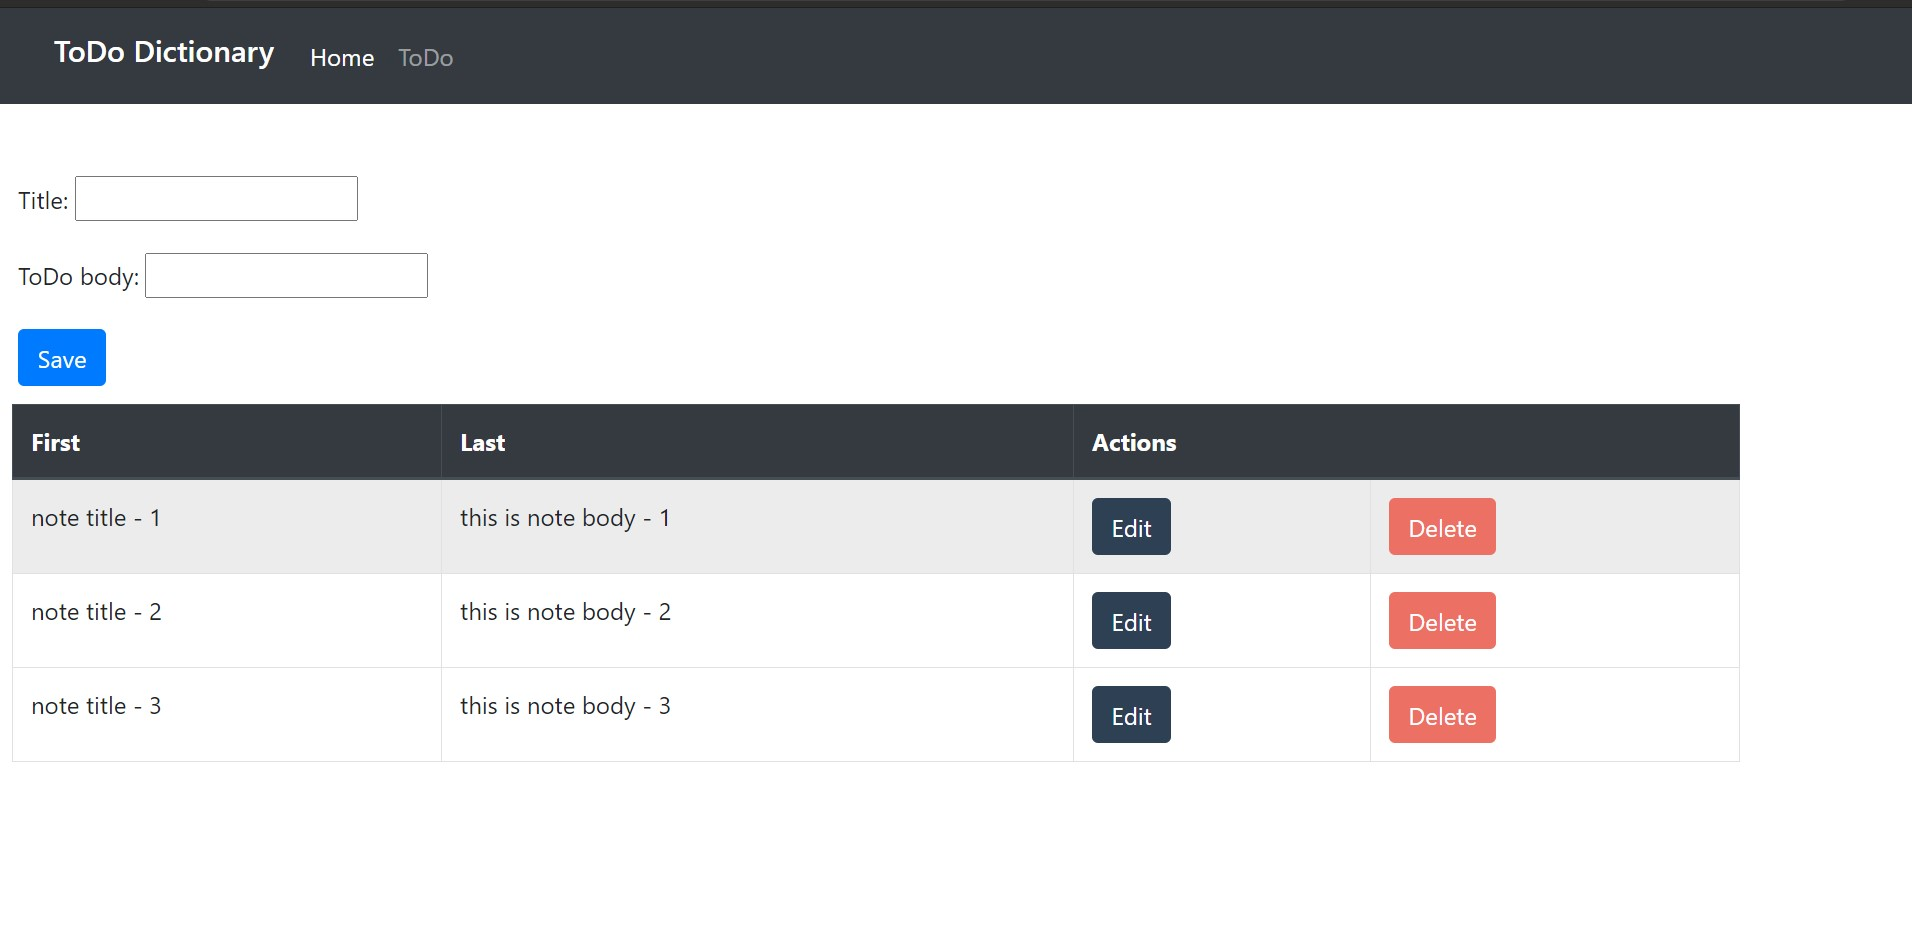
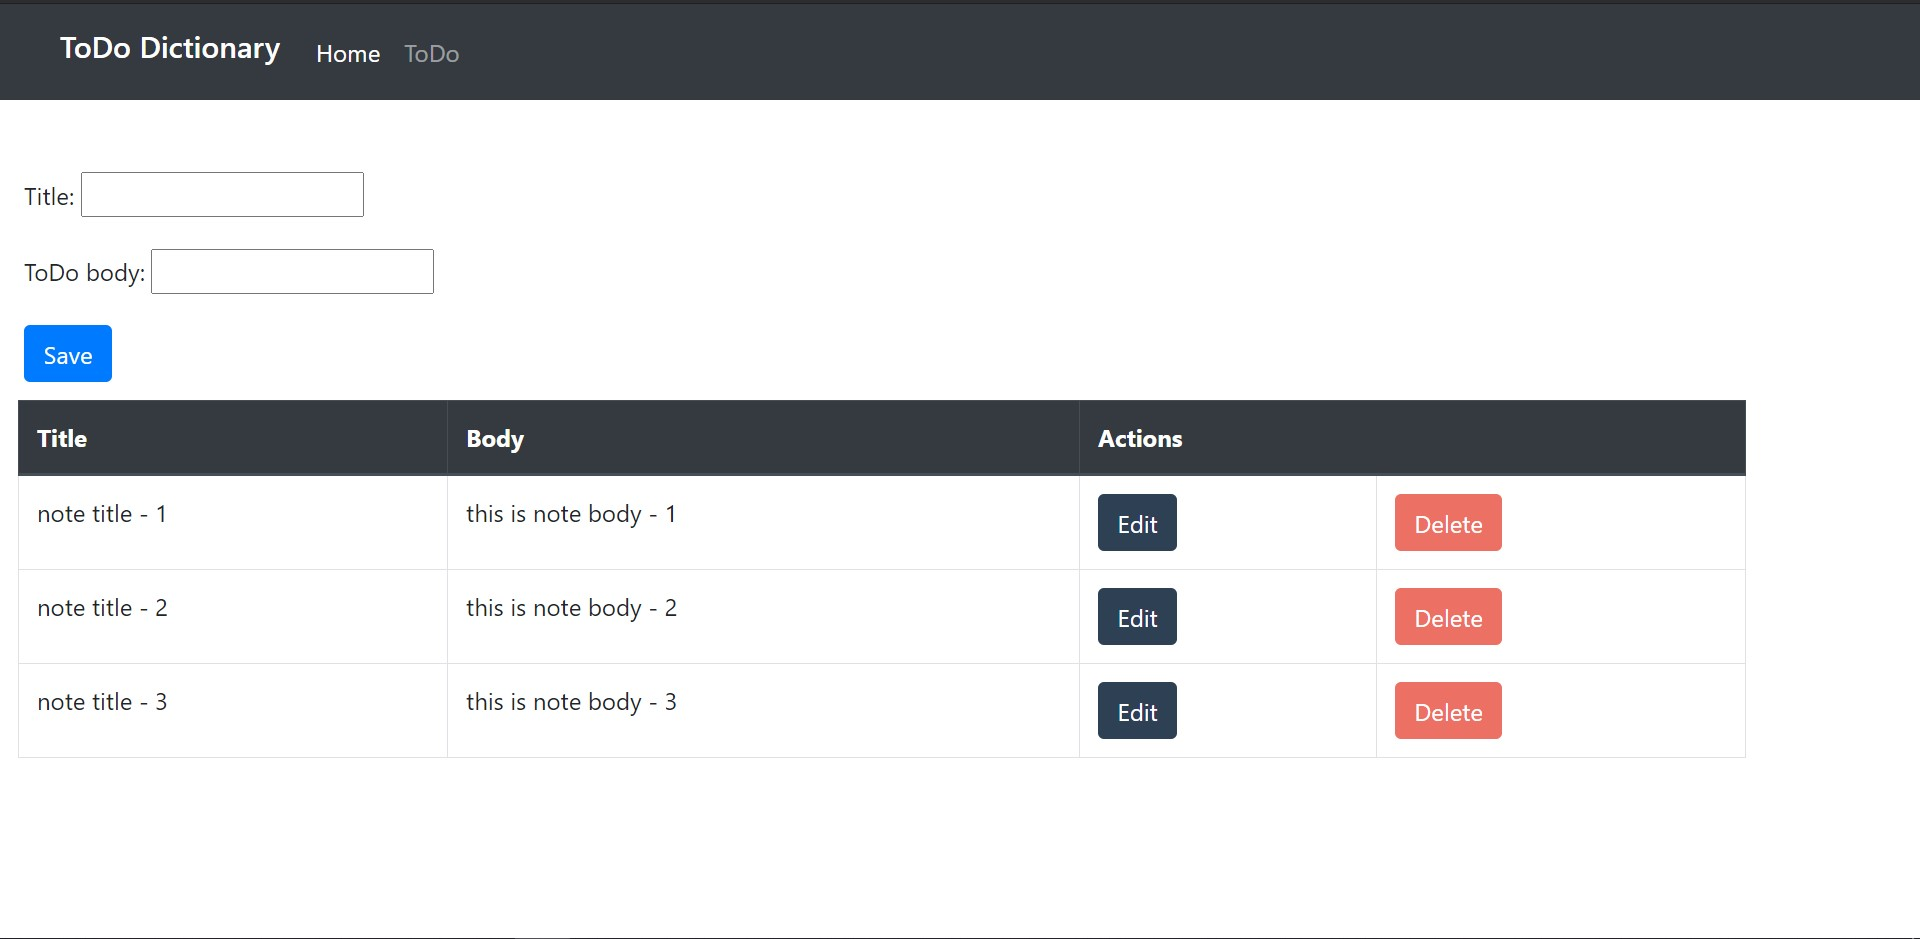
Minor README change and misc

diff --git a/templates/todo.html b/templates/todo.html
@@ -24,8 +24,8 @@
 <table style="width:90%; margin: 12px 12px 0px 12px;" class="table table-bordered table-hover">
     <thead class="thead-dark">
       <tr>
-        <th scope="col">First</th>
-        <th scope="col">Last</th>
+        <th scope="col">Title</th>
+        <th scope="col">Body</th>
         <th scope="col" colspan="2">Actions</th>
       </tr>
     </thead>

diff --git a/main_app/views.py b/main_app/views.py
@@ -16,7 +16,6 @@ class home(View):
         response = requests.get(
             url, headers={'Authorization': 'Token %s' % self.__access_token})
         response = response.json()
-        print(response['word'])
         return render(request, 'home.html', {'definition': response})
 
 
@@ -25,25 +24,25 @@ class todo(View):
     def get(self, request, *args, **kwargs):
         context = {}
         if('delete' in kwargs):
-            print(kwargs['delete'])
             todos.objects.get(slugg_id=kwargs['delete']).delete()
             return HttpResponseRedirect('/todo')
         elif('id' in kwargs):
-            print('edit', kwargs['id'])
+            if(todos.objects.filter(slugg_id=kwargs['id']).exists() == False):
+                return HttpResponseRedirect('/todo')
             context.update(
                 {'todo_entry': todos.objects.get(slugg_id=kwargs['id'])})
 
         context.update({'todos': todos.objects.all()})
-        print(context)
         return render(request, 'todo.html', context=context)
 
     def post(self, request, *args, **kwargs):
-        print(request.POST)
         if(request.POST['id']):
             todos.objects.filter(slugg_id=request.POST['id']).update(
                 title=request.POST['title'], todo_content=request.POST['body'])
         elif(request.POST['title']):
             todos.objects.create(
                 title=request.POST['title'], todo_content=request.POST['body'])
+        else:
+            return HttpResponseRedirect('/todo')
         all_todos = todos.objects.all()
         return render(request, 'todo.html', {'todos': all_todos})
